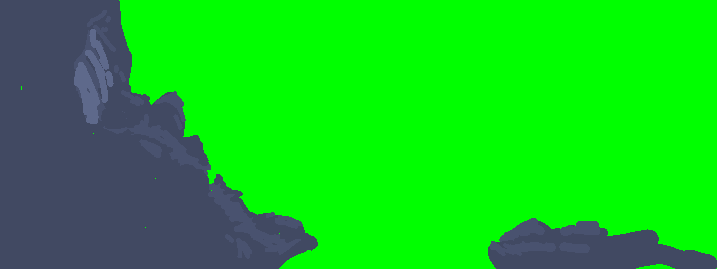
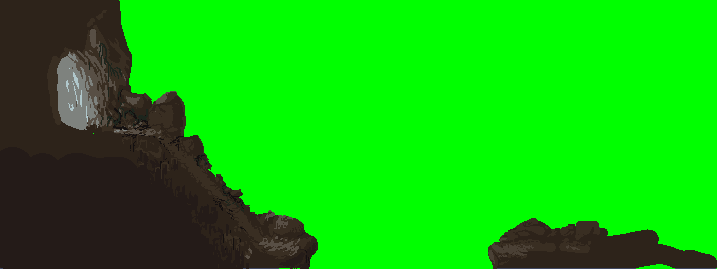
WCP: Bearcave set

diff --git a/sdk/krita/scripts/set_exporter.py b/sdk/krita/scripts/set_exporter.py
@@ -12,7 +12,7 @@ import json
 
 SRGB_PROFILE = "sRGB-elle-V2-srgbtrc.icc"
 FOLDER = r"C:\Users\lio\Desktop\zini\zut"
-LEVEL_FOLDER = "sumo_test"
+LEVEL_FOLDER = "bearcave"
 LEVEL_FILE = "coordinate.json"
 DEFAULT_DATA = {
     "deph": 0.0,

diff --git a/sdk/krita/scripts/krita_scene_from_json.py b/sdk/krita/scripts/krita_scene_from_json.py
@@ -5,7 +5,7 @@ from PyQt5 import QtGui
 
 
 ROOT = "D:/Works/code/GitHub/theWhiteCrowParrot/whitecrowparrot"
-JSON = "scenes/forest.json"
+JSON = "scenes/bearcave.json"
 
 
 def remove_key_color(image):
